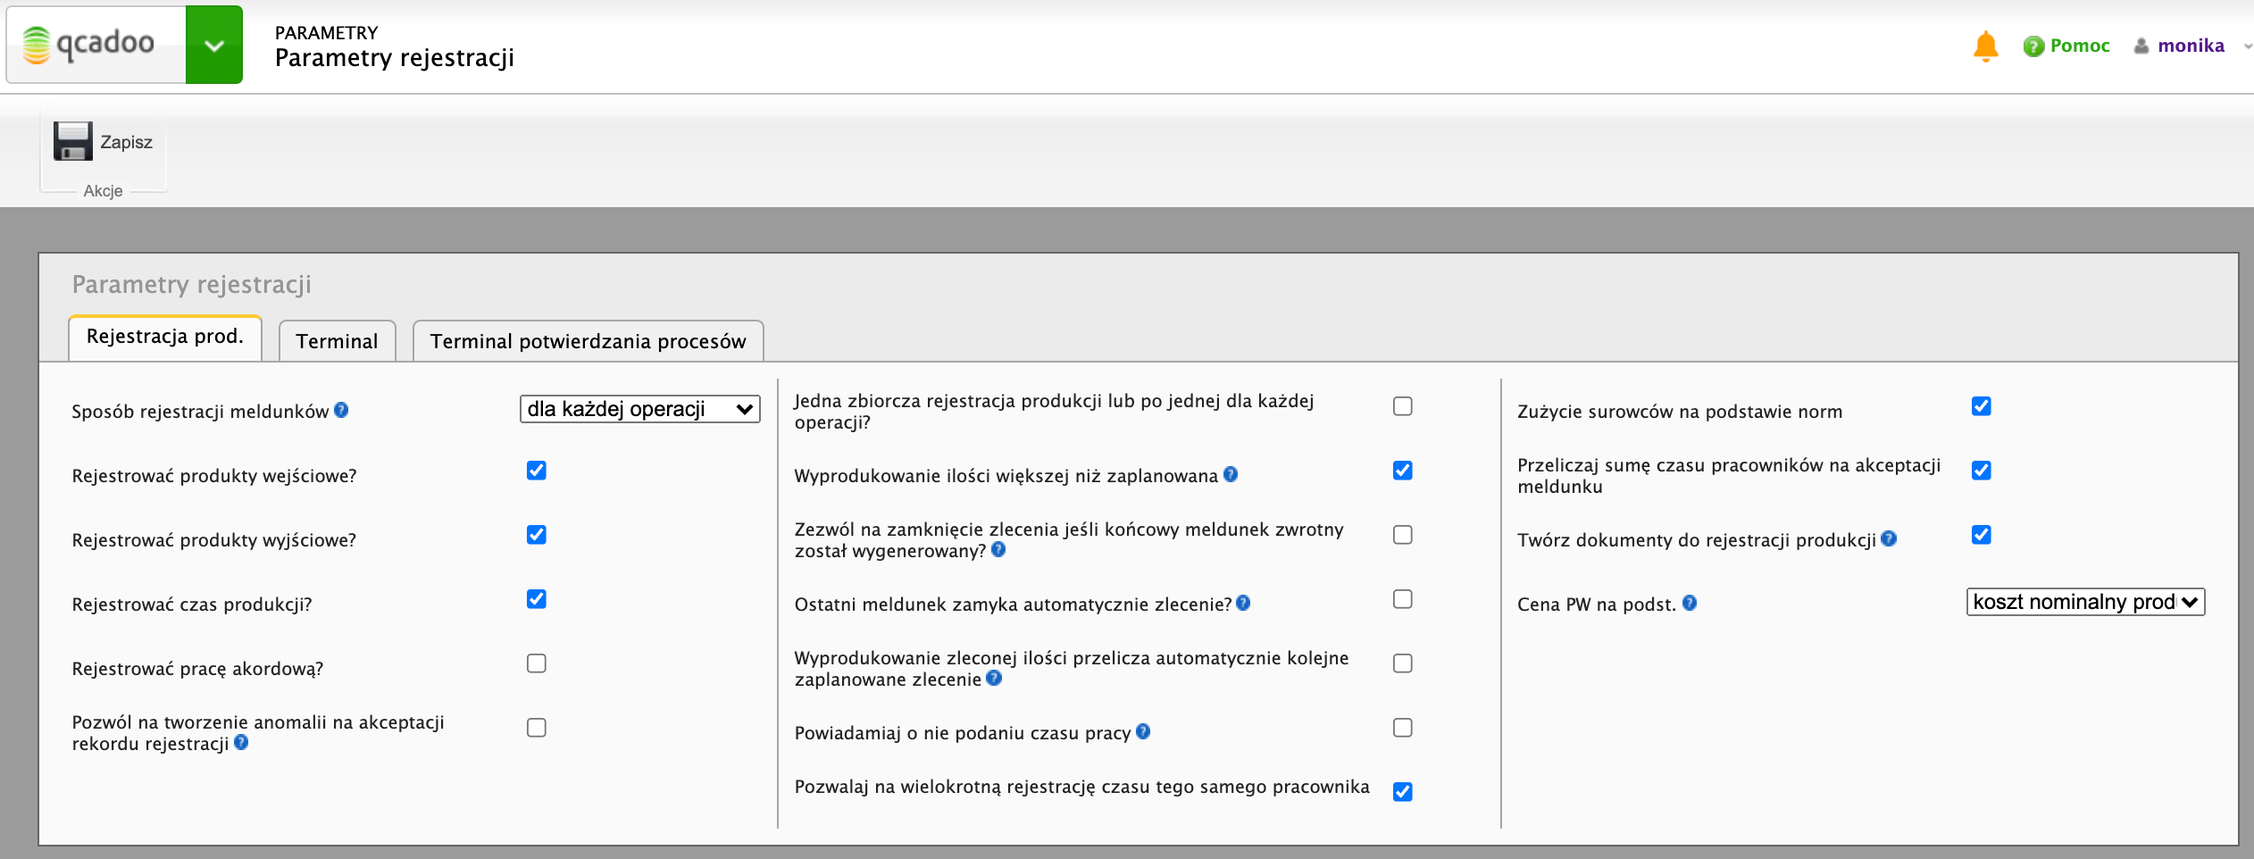
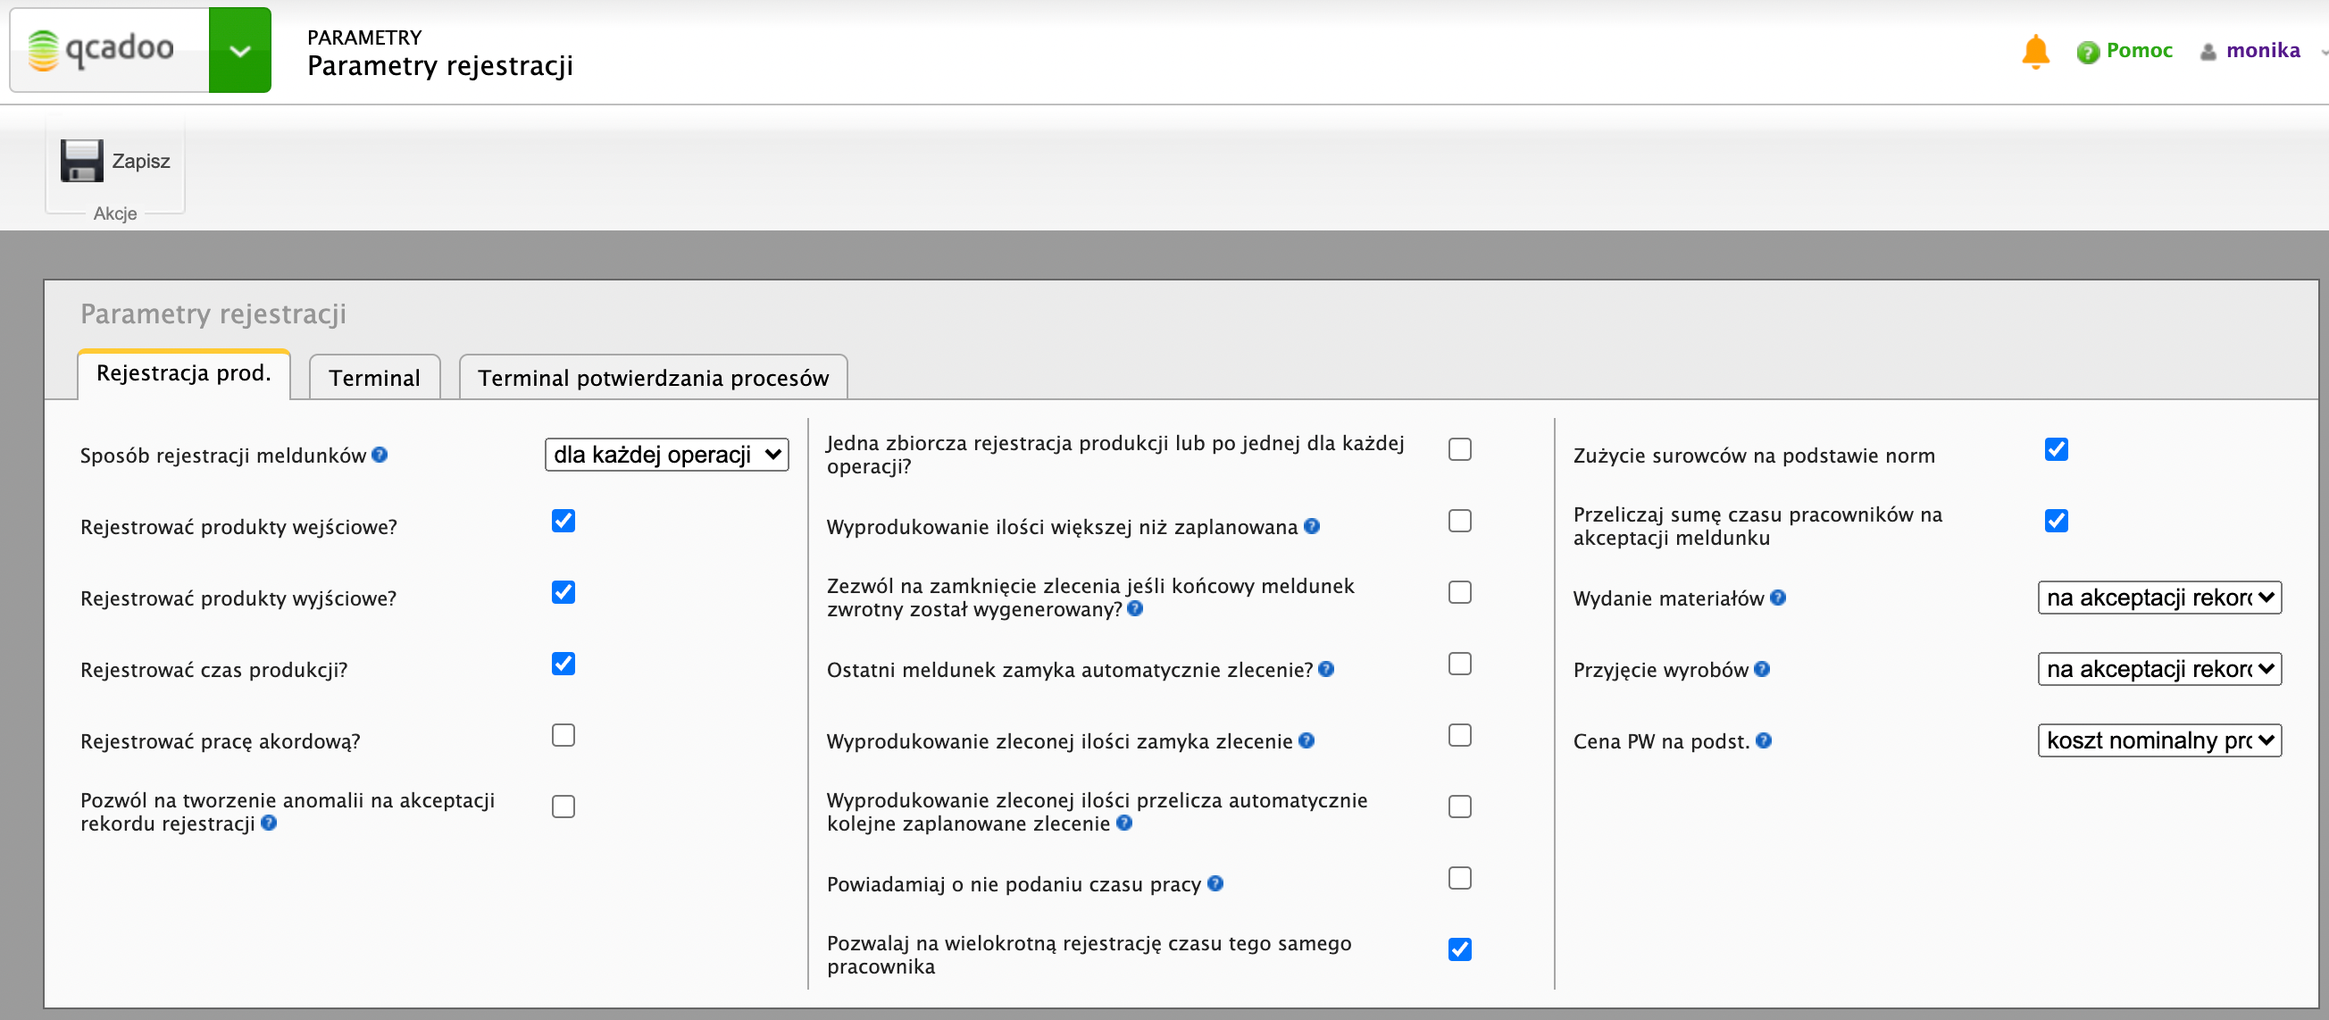
sprint 2.3.2

diff --git a/pages/parametry/parametry-rejestracji/parametry-rejestracja-produkcji.md b/pages/parametry/parametry-rejestracji/parametry-rejestracja-produkcji.md
@@ -40,21 +40,35 @@ Co oznaczają poszczególne parametry:
 
 10. **Ostatni meldunek zamyka automatycznie zlecenie?** - zaznacz parametr jeśli chcesz aby zlecenia samodzielnie się zamykały w momencie akceptacji rekordu rejestracji oznaczonego jako końcowy
 
-11. **Wyprodukowanie zleconej ilości przelicza automatycznie kolejne zaplanowane zlecenie** - parametr ma znaczenie, gdy używasz planów [produkcji na zmianę](/produkcja-na-zmiane). Jeśli wyprodukowano co najmniej tyle ile zlecono do produkcji, to qcadoo spróbuje przesunąć w czasie kolejne zlecenie, tak by można było je zacząć już (albo: dopiero) teraz. Zlecenie zostanie przesunięte w czasie i zostanie przeliczony jego plan na zmianę
+11. **Wyprodukowanie zleconej ilości zamyka zlecenie** - zaznacz parametr, a w momencie, gdy ilość wykonana zrówna się z ilością zleconą, zlecenie produkcyjne otrzyma status zakończone.
 
-12. **Powiadamiaj o nie podaniu czasu pracy** - jeśli chcesz aby pracownicy raportowali czas pracy, możesz zdecydować również, czy mamy pilnować aby na pewno uzupełnili. Zaznacz parametr, a akceptacja rekordu rejestracji nie powiedzie się jeśli czas pracy będzie nieokreślony
+12. **Wyprodukowanie zleconej ilości przelicza automatycznie kolejne zaplanowane zlecenie** - parametr ma znaczenie, gdy używasz planów [produkcji na zmianę](/produkcja-na-zmiane). Jeśli wyprodukowano co najmniej tyle ile zlecono do produkcji, to qcadoo spróbuje przesunąć w czasie kolejne zlecenie, tak by można było je zacząć już (albo: dopiero) teraz. Zlecenie zostanie przesunięte w czasie i zostanie przeliczony jego plan na zmianę
 
-13. **Pozwalaj na wielokrotną rejestrację czasu tego samego pracownika** - jeśli parametr nie będzie zaznaczony, to dany pracownik będzie mógł zadeklarować swój udział w zleceniu przez zarejestrowanie tylko jednego czasu pracy. Zatem jeśli podczas całej zmiany z rana poświęcił godzinę i póżniej pod koniec zmiany - dwie, to będzie musiał swoje trzy godziny wprowdzić jako zbiorczy zapis. Jeśli zaznaczysz parametr pracownik będzie mógł zarejestrować w danym meldunku dwa wpisy - z godziną i z dwiema godzinami
+13. **Powiadamiaj o nie podaniu czasu pracy** - jeśli chcesz aby pracownicy raportowali czas pracy, możesz zdecydować również, czy mamy pilnować aby na pewno uzupełnili. Zaznacz parametr, a akceptacja rekordu rejestracji nie powiedzie się jeśli czas pracy będzie nieokreślony
 
-14. **Zużycie surowców na podstawie norm** - zaznaczenie parametru sprawi, że po podaniu ilości wyprodukowanej przeliczymy ilość zużytą surowców, zgodnie z przyjętymi w technologiami normami ilościowymi. Co więcej - takie ustawienie sprawi, że w terminalu od razu ustawiona będzie zakładka z produktami wyjściowymi, co przyspieszy rejestrację
+14. **Pozwalaj na wielokrotną rejestrację czasu tego samego pracownika** - jeśli parametr nie będzie zaznaczony, to dany pracownik będzie mógł zadeklarować swój udział w zleceniu przez zarejestrowanie tylko jednego czasu pracy. Zatem jeśli podczas całej zmiany z rana poświęcił godzinę i póżniej pod koniec zmiany - dwie, to będzie musiał swoje trzy godziny wprowdzić jako zbiorczy zapis. Jeśli zaznaczysz parametr pracownik będzie mógł zarejestrować w danym meldunku dwa wpisy - z godziną i z dwiema godzinami
 
-15. **Przeliczaj sumę czasu pracowników na akceptacji meldunku** - zaznacz parametr, a na etapie akceptacji rekordu rejestracji wyliczmy sumę czasu pracy pracowników z tego meldunku. Dzięki temu nie będziesz musiał wywoływać ręcznie funkcji: Oblicz sumaryczny czas pracowników
+15. **Zużycie surowców na podstawie norm** - zaznaczenie parametru sprawi, że po podaniu ilości wyprodukowanej przeliczymy ilość zużytą surowców, zgodnie z przyjętymi w technologiami normami ilościowymi. Co więcej - takie ustawienie sprawi, że w terminalu od razu ustawiona będzie zakładka z produktami wyjściowymi, co przyspieszy rejestrację
 
-16. **Twórz dokumenty do rejestracji produkcji** - zaznaczenie parametru spowoduje, że akceptacja rekordu rejestracji utworzy dokumenty RW i PW. Jeśli nie chcesz aby tak się stało - odznacz parametr. Nie utworzą się dokumenty i nie będą sprawdzane stany dostępnych produktów. Dokumenty magazynowe będziesz musiał wystawić sam ręcznie, albo poprzez funkcję wydania i przyjęcia do grupy zleceń
+16. **Przeliczaj sumę czasu pracowników na akceptacji meldunku** - zaznacz parametr, a na etapie akceptacji rekordu rejestracji wyliczmy sumę czasu pracy pracowników z tego meldunku. Dzięki temu nie będziesz musiał wywoływać ręcznie funkcji: Oblicz sumaryczny czas pracowników
 
-17. **Cena PW na podst.** - to parametr mówiący o tym w jaki sposób mamy ustalać cenę na dokumenty PW przyjmujące na magazyn wytworzone wyroby. Do wyboru dwie opcje:
-- koszt nominalny produktu - inaczej: cena ewidencyjna. Wyroby przyjmowane są na magazyn w cenie przyjętej jako stała w danym okresie. Ewentualne odchylenia rozksięgowywane są już w systemie księgowym. Koszt nominalny wprowdzany jest w [produkcie](/produkty) w zakładce Koszty. Jeśli zdecydujesz się na ten tryb, to dokumenty PW będą tworzyły się do każdej akceptacji rekordu rejestracji. A zatem wytworzone produkty znajdą się na magazynie od razu po wyprodukowaniu
-- rzeczywisty TKW - wyroby przyjmowane są na magazyn w rzeczywistych kosztach wytworzenia - czyli koszt zużytych materiałów ustalany jest na podstawie cen zasobów rozchodowanych pod zlecenie powiększony o koszt robocizny na podstawie zarejestrowanego czasu. W takiej sytuacji na akceptacji każdego rekordu rejestracji tworzone są tylko dokumenty RW, a dokumenty PW tworzone są dopiero po zakończeniu produkcji do danego zlecenia, w momencie jego zakończenia
+17. **Wydanie materiałów**: do wyboru 4 opcje: 
+- na akceptacji rekordu rejestracji - do każdej rejestracji produkcji, meldującej zużycie materiału, zostanie utworzony, na akceptacji rekordu rejestracji, dokument RW
+- na zakończeniu zlecenia - do zlecenia zostanie utworzony jeden zbiorczy dokument RW, w momencie ustawienia statusu na zakończony, zbierający wszystkie materiały zameldowane jako zużyte w rekordach rejestracji
+- ręcznie do zlecenia/grupy - dokument RW nie utworzy się automatycznie. Trzeba go utworzyć ręcznie, zapewne przed uruchomieniem produkcji, na podstawie danych ze szczegółowego zapotrzebowania (gdy wydanie do zlecenia produkcyjnego) lub zapotrzebowania materiałowego grupy zleceń (gdy wydanie do grupy zleceń). W rekordzie rejestracji tabela produktów wejściowych będzie nieaktywna i będzie prezentować ilości wydane ręcznie
+- nie twórz dokumentów - rejestracja produkcji działa standardowo: pracownicy raportują co zużyli i co wyprodukowali, ale ani na rejestracji produkcji ani na zakończeniu zlecenia, dokument RW się nie utworzy. Funkcja ręcznego wydania do szczegółowego zapotrzebowania lub z zapotrzebowania materiałowego grupy zleceń nie będzie aktywna.
+
+{:start="18"}
+18. **Przyjęcie wyrobów** - do wyboru 4 opcje:
+- na akceptacji rekordu rejestracji - do każdej rejestracji produkcji, meldującej o wytworzeniu produktu wyjściowego, zostanie utworzony, na akceptacji rekordu, dokument PW. W tej opcji cena produktu
+- na zakończeniu zlecenia - dokument PW tworzony jest w momencie zakończenia zlecenia, na podstawie zaraportowanych ilości wytworzonych ze wszystkich rekordów rejestracji danego zlecenia. W tej opcji cena na PW może być ustalona albo na podstawie kosztu nominalnego, albo na podstawie TKW (w zależności od parametru *Cena PW na podst.*)
+- ręcznie do grupy zleceń - zaraportowane ilości wytworzone zapisywane są w grupie zleceń i użytkownik ręcznie wskazuje, które chce przyjąć na magazyn. Tworzy się wówczas dokument PW w cenie na podstawie kosztu nominalnego
+- nie twórz dokumentów - produkcja raportowana jest standardowo, ale ani w monencie akceptacji rekordu rejestracji ani na zakończeniu zlecenia nie jest tworzony dokument PW.
+
+{:start="19"}
+19. **Cena PW na podst.** - to parametr mówiący o tym w jaki sposób mamy ustalać cenę na dokumenty PW przyjmujące na magazyn wytworzone wyroby. Do wyboru dwie opcje:
+- koszt nominalny produktu - inaczej: cena ewidencyjna. Wyroby przyjmowane są na magazyn w cenie przyjętej jako stała w danym okresie. Ewentualne odchylenia rozksięgowywane są już w systemie księgowym. Koszt nominalny wprowdzany jest w [produkcie](/produkty) w zakładce Koszty. Dokument z taką ceną może być tworzony w każdym trybie tworzenia dokumentów (parametr *Przyjęcie wyrobów*)
+- rzeczywisty TKW - wyroby przyjmowane są na magazyn w rzeczywistych kosztach wytworzenia - czyli koszt zużytych materiałów ustalany jest na podstawie cen zasobów rozchodowanych pod zlecenie powiększony o koszt robocizny na podstawie zarejestrowanego czasu. Opcja ta jest dostępna tylko wtedy, gdy *Przyjęcie wyrobów* = na zakończeniu zlecenia
 
 Jeśli do rejestracji produkcji będziesz używać terminala - zernij także w zakładkę [Terminal](/parametry-rejestracja-produkcji.html#terminal).
 

diff --git a/pages/planowanie/zlecenia-produkcyjne/zmiana-stanu-zapotrzebowania.md b/pages/planowanie/zlecenia-produkcyjne/zmiana-stanu-zapotrzebowania.md
@@ -57,3 +57,10 @@ Kliknij przycisk {% include inline_image.html file="przyciskNowyMaly.png" alt="P
 {% include callout.html content="Pamiętaj, że zakładka Atrybuty zasobu, widoczna jest tylko dla produktów wytwarzanych." type="info" %}
 
 Jeśli zlecenie produkcyjne pochodzi z [zamówienia sprzedaży](/zlecenia-nadrzedne.html#dodanie-nowego-zamówienia-sprzedaży), w którym atrybuty były określone, to produkt finalny zlecenia będzie miał je wypełnione. Zlecenie produkcyjne przekaże atrybuty dalej, do kolejnych etapów procesu - zobaczysz je na karcie pracy, w terminalu rejestracji produkcji czy w rekordzie rejestracji. A z rekordu rejestracji będą przekazane na tworzony dokument PW. A z dokumentu z kolei - to kształtującego stan magazynowy zasobu. 
+
+--- 
+## Ręczne wydanie materiałów do zlecenia produkcyjnego
+
+Jeśli chcesz wydawać materiały ręcznie do zlecenia produkcyjnego zacznij od ustawienia [parametru rejestracji](/parametry-rejestracja-produkcji.html#rejestracja-produkcji) **Wydanie materiałów** na ręcznie do zlecenia / grupy. Dzięki temu w szczegółowym zapotrzebowaniu będzie aktywny przycisk {% include inline_image.html file="przyciskWydajSurowce.png" alt="Przycisk Wydaj surowce" %} **Wydaj surowce**. Zaznacz materiały, które chcesz rozchodować (zielone wiersze w szczegółowym zapotrzebowaniu, czyli produkty o typie = surowiec i roli = użyty) i kliknij przycisk. Spowoduje to utworzenie dokumentu magazynowego RW na zaznaczone produkty, w ilościach pozostałych do wydania (ilość wyliczona jako różnica między ilością planowaną a już użytą). Dokument RW będzie miał przypisanie do zlecenia produkcyjnego. W szczegółowym zapotrzebowaniu zostaną ustawione odpowiednio ilości użyte. W rejestracji produkcji będą widoczne produkty wejściowe, potrzebne do realizacji zlecenia, ale pracownik nie będzie mógł zaraportować zużycia.
+
+{% include callout.html content="Jeśli chcesz wydać więcej niż pierwotnie zaplanowano, wejdź w dany produkt i zwiększ mu ilość planowaną. Dzięki temu będziesz mógł ponownie przeprowadzić proces wydania materiału." type="info" %}

diff --git a/pages/planowanie/grupy-zlecen.md b/pages/planowanie/grupy-zlecen.md
@@ -101,9 +101,7 @@ Grupa zleceń zmienia status realizacji poprzez zmianę statusu zleceń, które 
 
 Jeśli chcesz, aby dokumenty RW tworzone były na całą grupę zleceń, a nie do każdego zlecenia z osobna, skorzystaj z opcji wydawania dostępnej w szczególe grupy.
 
-Zacznij od odpowiedniej konfiguracji:
-- wejdź w parametry > parametry rejestracji > zakładka Rejestracja prod. i wyłącz parametr: **Twórz dokumenty do rejestracji produkcji**
-- wejdź w parametry > parametry planowania > zakładka Grupa zleceń i włącz parametr **Pozwól na tworzenie PW i RW do grup zleceń**
+Zacznij od odpowiedniej konfiguracji. Wejdź w parametry > parametry rejestracji > zakładka Rejestracja prod. i dla **Wydanie materiałów** ustaw = ręcznie do zlecenia / grupy.
 
 Dzięki temu w grupie zleceń zobaczysz:
 - zakładkę Wydane materiały
@@ -150,9 +148,8 @@ Aby mieć pewność, że dane o wydanych materiałach w grupie zleceń są najś
 ---
 ## Przyjmowanie wyrobów do grupy zleceń
 
-Jeśli nie chcesz, aby dokumenty PW dotyczyły każdego wykonywanego zlecenia, tylko chcesz wyroby przyjować na magazyn zbiorczo do grupy zleceń ustaw:
-- [parametr rejestracji](/parametry-rejestracja-produkcji.html#rejestracja-produkcji) *Twórz dokumenty do rejestracji produkcji* = nie
-- [parametr grupy zleceń](/parametry-planowania.html#grupy-zleceń) *Pozwól na tworzenie PW i RW do grup zleceń* = tak
+Jeśli nie chcesz, aby dokumenty PW dotyczyły każdego wykonywanego zlecenia, tylko chcesz wyroby przyjować na magazyn zbiorczo do grupy zleceń ustaw [parametr rejestracji](/parametry-rejestracja-produkcji.html#rejestracja-produkcji) *Przyjęcie wyrobów* = ręcznie do grupy zleceń.
+
 
 Dzięki temu będziesz mógł wywołać funkcję {% include inline_image.html file="przyciskPrzyjmijWybory.png" alt="Przycisk Przyjmij wybory" %} **Przyjmij wyroby** na podstawie zgromadzonych informacji w [rekordach rejestracji](/rejestracja-produkcji) o wytworzonych produktach. 
 

diff --git a/pages/dashboard/dashboard.md b/pages/dashboard/dashboard.md
@@ -47,6 +47,8 @@ Ten element dashboardu ma na celu szybkie pokazanie Ci co masz zaplanowane do re
 <br/>
 <br/>
 
+{% include callout.html content="Jeśli chcesz, aby obszar zleceń/zadań rozciągnięty był na całą wysokość ekranu, wyłącz w parametrach Wykres dzienny produkcji i dla każdego przycisku ustaw by był niewidoczny." type="warning" %}
+
 W zależności od statusu zlecenie wskakuje do właściwej grupy::
 - jeśli zlecenia mają status _zaakceptowane_ lub _przerwane_ to prezentowane są w grupie **oczekujące**
 - jeśli zlecenia mają status _rozpoczęte_ to pojawiają się w grupie **realizowane**
@@ -83,3 +85,15 @@ Z poziomu zadań operacyjnych widocznych na dashboardzie możesz wykonać nastę
 3. klikając przycisk {% include inline_image.html file="przyciskPokazTerminal.png" alt="Przycisk Pokaż terminal" %} **Pokaż terminal** przejdziesz do terminala rejestracji produkcji i będziesz mógł zaraportować efekty swojej produkcji (dane zostaną z automatu wczytane, zostaje Ci podanie ilości, czasu i potwierdzenie meldunku).
 
 {% include callout.html content="Jeśli użytkownik, z którego korzystasz, ma przypisanego pracownika, to zostanie on z automatu wypełniony po przejściu do terminala. Jeśli nie ma - będziesz musiał pracownika ręcznie zalogować i dopiero wówczas wczytają się dane o zadaniu / zleceniu." type="warning" %}
+
+Dodatkowo zarówno zlecenia jak i zadania mogą być filtrowane po następujących danych: 
+- numer produktu
+- nazwa kontrahenta
+- opis
+- kategoria zlecenia
+- numer linii produkcyjnej
+- numer stacji roboczej
+- pracownik
+- numer zlecenia
+
+Aby przefiltrować należy wpisać kryterium w pole Szukaj i nacisnąć Enter.

diff --git a/pages/planowanie/zlecenia-produkcyjne/stany-i-statusy-zlecen.md b/pages/planowanie/zlecenia-produkcyjne/stany-i-statusy-zlecen.md
@@ -22,7 +22,7 @@ Należy skopiować zlecenie - wtedy pojawi się duplikat, tyle że w statusie sz
  {% include callout.html content="Możliwe jest rozpoczęcie zlecenia przed planowanym terminem." type="info" %}
  
 - {% include inline_image.html file="pauseIcon16.png" alt="Przycisk do wstrzymania" %} **Przerwane** - ten status jest przydatny w sytuacji, gdy okazuje się, że na przykład zabrakło surowców, klient nie zapłacił jednej z faktur, rozchorował się pracownik realizujący kluczowe zadanie. Zlecenie może zostać ponownie wystartowane,
-- {% include inline_image.html file="acceptIcon24.png" alt="Przycisk do akceptacji" %} **Zakończone** - zlecenie zostało sfinalizowane, udało się doprowadzić je do końca. Zakończyć można tylko zlecenia, w których ilość wyprodukowana > 0,
+- {% include inline_image.html file="acceptIcon24.png" alt="Przycisk do akceptacji" %} **Zakończone** - zlecenie zostało sfinalizowane, udało się doprowadzić je do końca. Zakończyć można tylko zlecenia, w których ilość wyprodukowana > 0. Zlecenie może się zakończyć samo, w momencie osiągnięcia 100% wykonania (za tą opcję odpowiada [parametr rejestracji produkcji](/parametry-rejestracja-produkcji.html#rejestracja-produkcji): **Wyprodukowanie zleconej ilości zamyka zlecenie**)
 - {% include inline_image.html file="deleteIcon24.png" alt="Przycisk do usuwania" %} **Zaniechane** - zlecenie zostało wycofane z produkcji w trakcie realizacji.
 
 {% include lightbox.html file="planowanieStatusyZlecenia.png" alt="Ścieżka statusów" caption="Ścieżka statusów" %}

diff --git a/pages/produkty/modele.md b/pages/produkty/modele.md
@@ -20,3 +20,18 @@ Uzupełnij następujące informacje:
 - **forma** - możesz wskazać z jakiej formy trzeba korzystać przy produkcji danego modelu
 - **rodzaj wyrobu** -  do wyboru ze słownika. Użyj jeśli produkujesz różnego rodzaju wyroby i chcesz pokazać pracownikom do jakiej grupy należy ten model (np. spodnie, koszulki i bluzy)
 - **etykieta** - możesz do modelu przypisać etykietę, która powinna zostać do wyrobu użyta
+
+## Jak zaimportować modele z Excela?
+
+qcadoo MES pozwala na zaciągnięciu wielu danych z arkusza Excel. Sposób działania w każdym z miejsc jest dokładnie taki sam - opis znajdziesz w [tej dokumentacji](/import-z-excel). Poszczególne funkcjonalności różnią się tylko szablonem, który trzeba wypełnić.
+
+Aby zaimportować modele (i pobrać szablon do wypełnienia) wejdź w **Produkty > Modele** i kliknij przycisk {% include inline_image.html file="przyciskImportujModele.png" alt="Przycisk Importuj modele" %} **Importuj modele z XLSX**.
+
+Arkusz .xlsx do importu modeli zawiera następujące kolumny:
+- **nazwa** (kolumna A) - nazwa modelu musi być unikalna,
+- **asortyment** (kolumna B) - numer [asortymentu](/asortymenty) zdefiniowanego w qcadoo,
+- **forma** (kolumna C) - numer [formy](/formy) zdefiniowanej w qcadoo,
+- **rodzaj wyrobu** (kolumna D) - rodzaj wyrobu, zdefiniowany w [słownikach](slowniki) qcadoo,
+- **etykieta** (kolumna E) - numer [etykiety](/etykiety) zdefiniowanej w qcadoo.
+
+

diff --git a/pages/parametry/parametry-planowania/parametry-planowania.md b/pages/parametry/parametry-planowania/parametry-planowania.md
@@ -135,10 +135,9 @@ Po zamknięciu zleceń z grup spróbujemy pozamykać też zamówienia sprzedaży
 
 4. **Wymagaj asortymentu** - zaznacz parametr jeśli chcesz, by każda grupa zleceń dotyczyła jednego asortymentu i by ten asortyment zawsze był wypełniony
 
-5. **Pozwól na tworzenie PW i RW do grup zleceń** - parametr aktywny jest tylko wówczas, gdy [parametr rejestracji](/parametry-rejestracja-produkcji.html#rejestracja-produkcji) *Twórz dokumenty do rejestracji produkcji* nie jest zaznaczony. Zaznaczenie parametru to włączenie możliwości tworzenia dokumentów RW i PW do grupy zleceń. Dokumenty te tworzone są poprzez ręczne wywołanie funkcji w grupie. A wydane i przyjęte produkty są zapisane w dedykowanych zakładkach w grupie.
+5. **Numer na podstawie wzorca** - zdefiniuj [wzorzec](/wzorce-numerow) i wskaż go w polu. Dzieki temu utworzona grupa zleceń otrzyma numer w stworzonej przez Ciebie konfiguracji
 
-6. **Numer na podstawie wzorca** - zdefiniuj [wzorzec](/wzorce-numerow) i wskaż go w polu. Dzieki temu utworzona grupa zleceń otrzyma numer w stworzonej przez Ciebie konfiguracji
-
+6. **Atrybut wyrobu na wydruku zapotrzebowania materiałowego grupy zleceń** - wartość wskazanego tutaj atrybutu pojawi się na wydruku zapotrzebowania materiałowego grupy zleceń, w nagłówku, w obszarze wyrobów, czyli rodzin produktów, których produkcję zleca dana grupa zleceń
 
 ## Wydruk grupy zleceń
 
